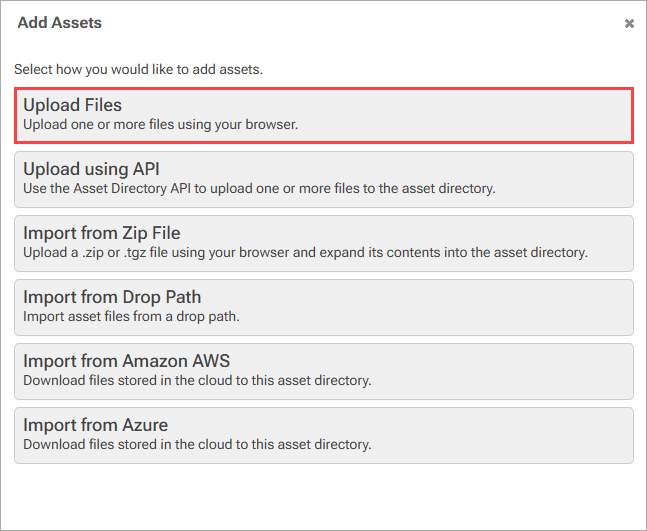
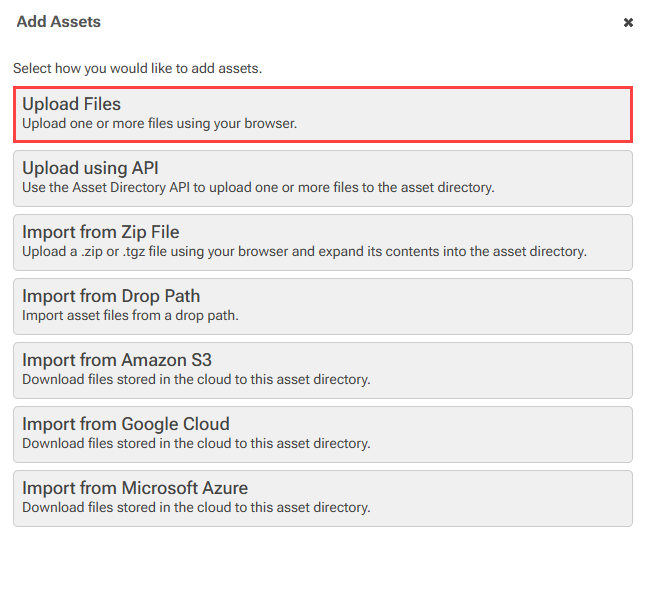
Configurestorage addassets image updates (#510)
* updated proget screenshots with new ui

* updated add assets image and changing storage text

---------

Changed region(s): [[0.0, 0.0, 1.0, 1.0], [0.0, 0.0, 0.155, 0.0603]]

diff --git a/Content/proget/cloud-storage/howto-configure-feed-for-google-cloud.md b/Content/proget/cloud-storage/howto-configure-feed-for-google-cloud.md
@@ -71,7 +71,7 @@ Next, you need to select the type of feed you want to set up. In this tutorial w
 ![Create NuGet Feed](/resources/docs/proget-nuget-newfeed.png){height="" width="50%"}
     
 ## Step 7: Change Your Feed’s Package Store Location
-ProGet stores package files on disk by default, so you will need to configure your feed to store packages on Google Cloud instead. In your feed, click Manage Feed > Storage & Retention, and then select Change next to Storage.
+ProGet stores package files on disk by default, so you will need to configure your feed to store packages on Google Cloud instead. In your feed, click Storage & Retention, and then select Change next to Storage.
 
 ![Change Storage Location](/resources/docs/proget-nuget-changestorage.png){height="" width="50%"}
     

diff --git a/Content/proget/cloud-storage/howto-configure-feed-for-azure-blob.md b/Content/proget/cloud-storage/howto-configure-feed-for-azure-blob.md
@@ -53,7 +53,7 @@ Next, you need to select the type of feed you want to set up. In this tutorial w
 ![Create NuGet Feed](/resources/docs/proget-nuget-newfeed.png){height="" width="50%"}
 
 ## Step 6: Change your Feeds Package Storage Location
-By default, ProGet stores package files on disk, so your feed must be configured to store packages on Azure Blob Storage instead. In your feed, click Manage Feed > Storage & Retention, and then select Change next to Storage.
+By default, ProGet stores package files on disk, so your feed must be configured to store packages on Azure Blob Storage instead. In your feed, click Storage & Retention, and then select Change next to Storage.
 
 ![Change Storage Location](/resources/docs/proget-nuget-changestorage.png){height="" width="50%"}
     

diff --git a/Content/proget/cloud-storage/howto-configure-feed-for-s3.md b/Content/proget/cloud-storage/howto-configure-feed-for-s3.md
@@ -49,7 +49,7 @@ Next, you need to select the type of feed you want to set up. In this tutorial w
 ![Create NuGet Feed](/resources/docs/proget-nuget-newfeed.png){height="" width="50%"}
 
 ## Step 5: Change Your Feed’s Package Store Location
-By default, ProGet stores package files on disk, so your feed must be configured to store packages on Amazon S3 instead. In your feed, click Manage Feed > Storage & Retention, and then select Change next to Storage.
+By default, ProGet stores package files on disk, so your feed must be configured to store packages on Amazon S3 instead. In your feed, click Storage & Retention, and then select Change next to Storage.
 
 ![Change Storage Location](/resources/docs/proget-nuget-changestorage.png){height="" width="50%"}
     
